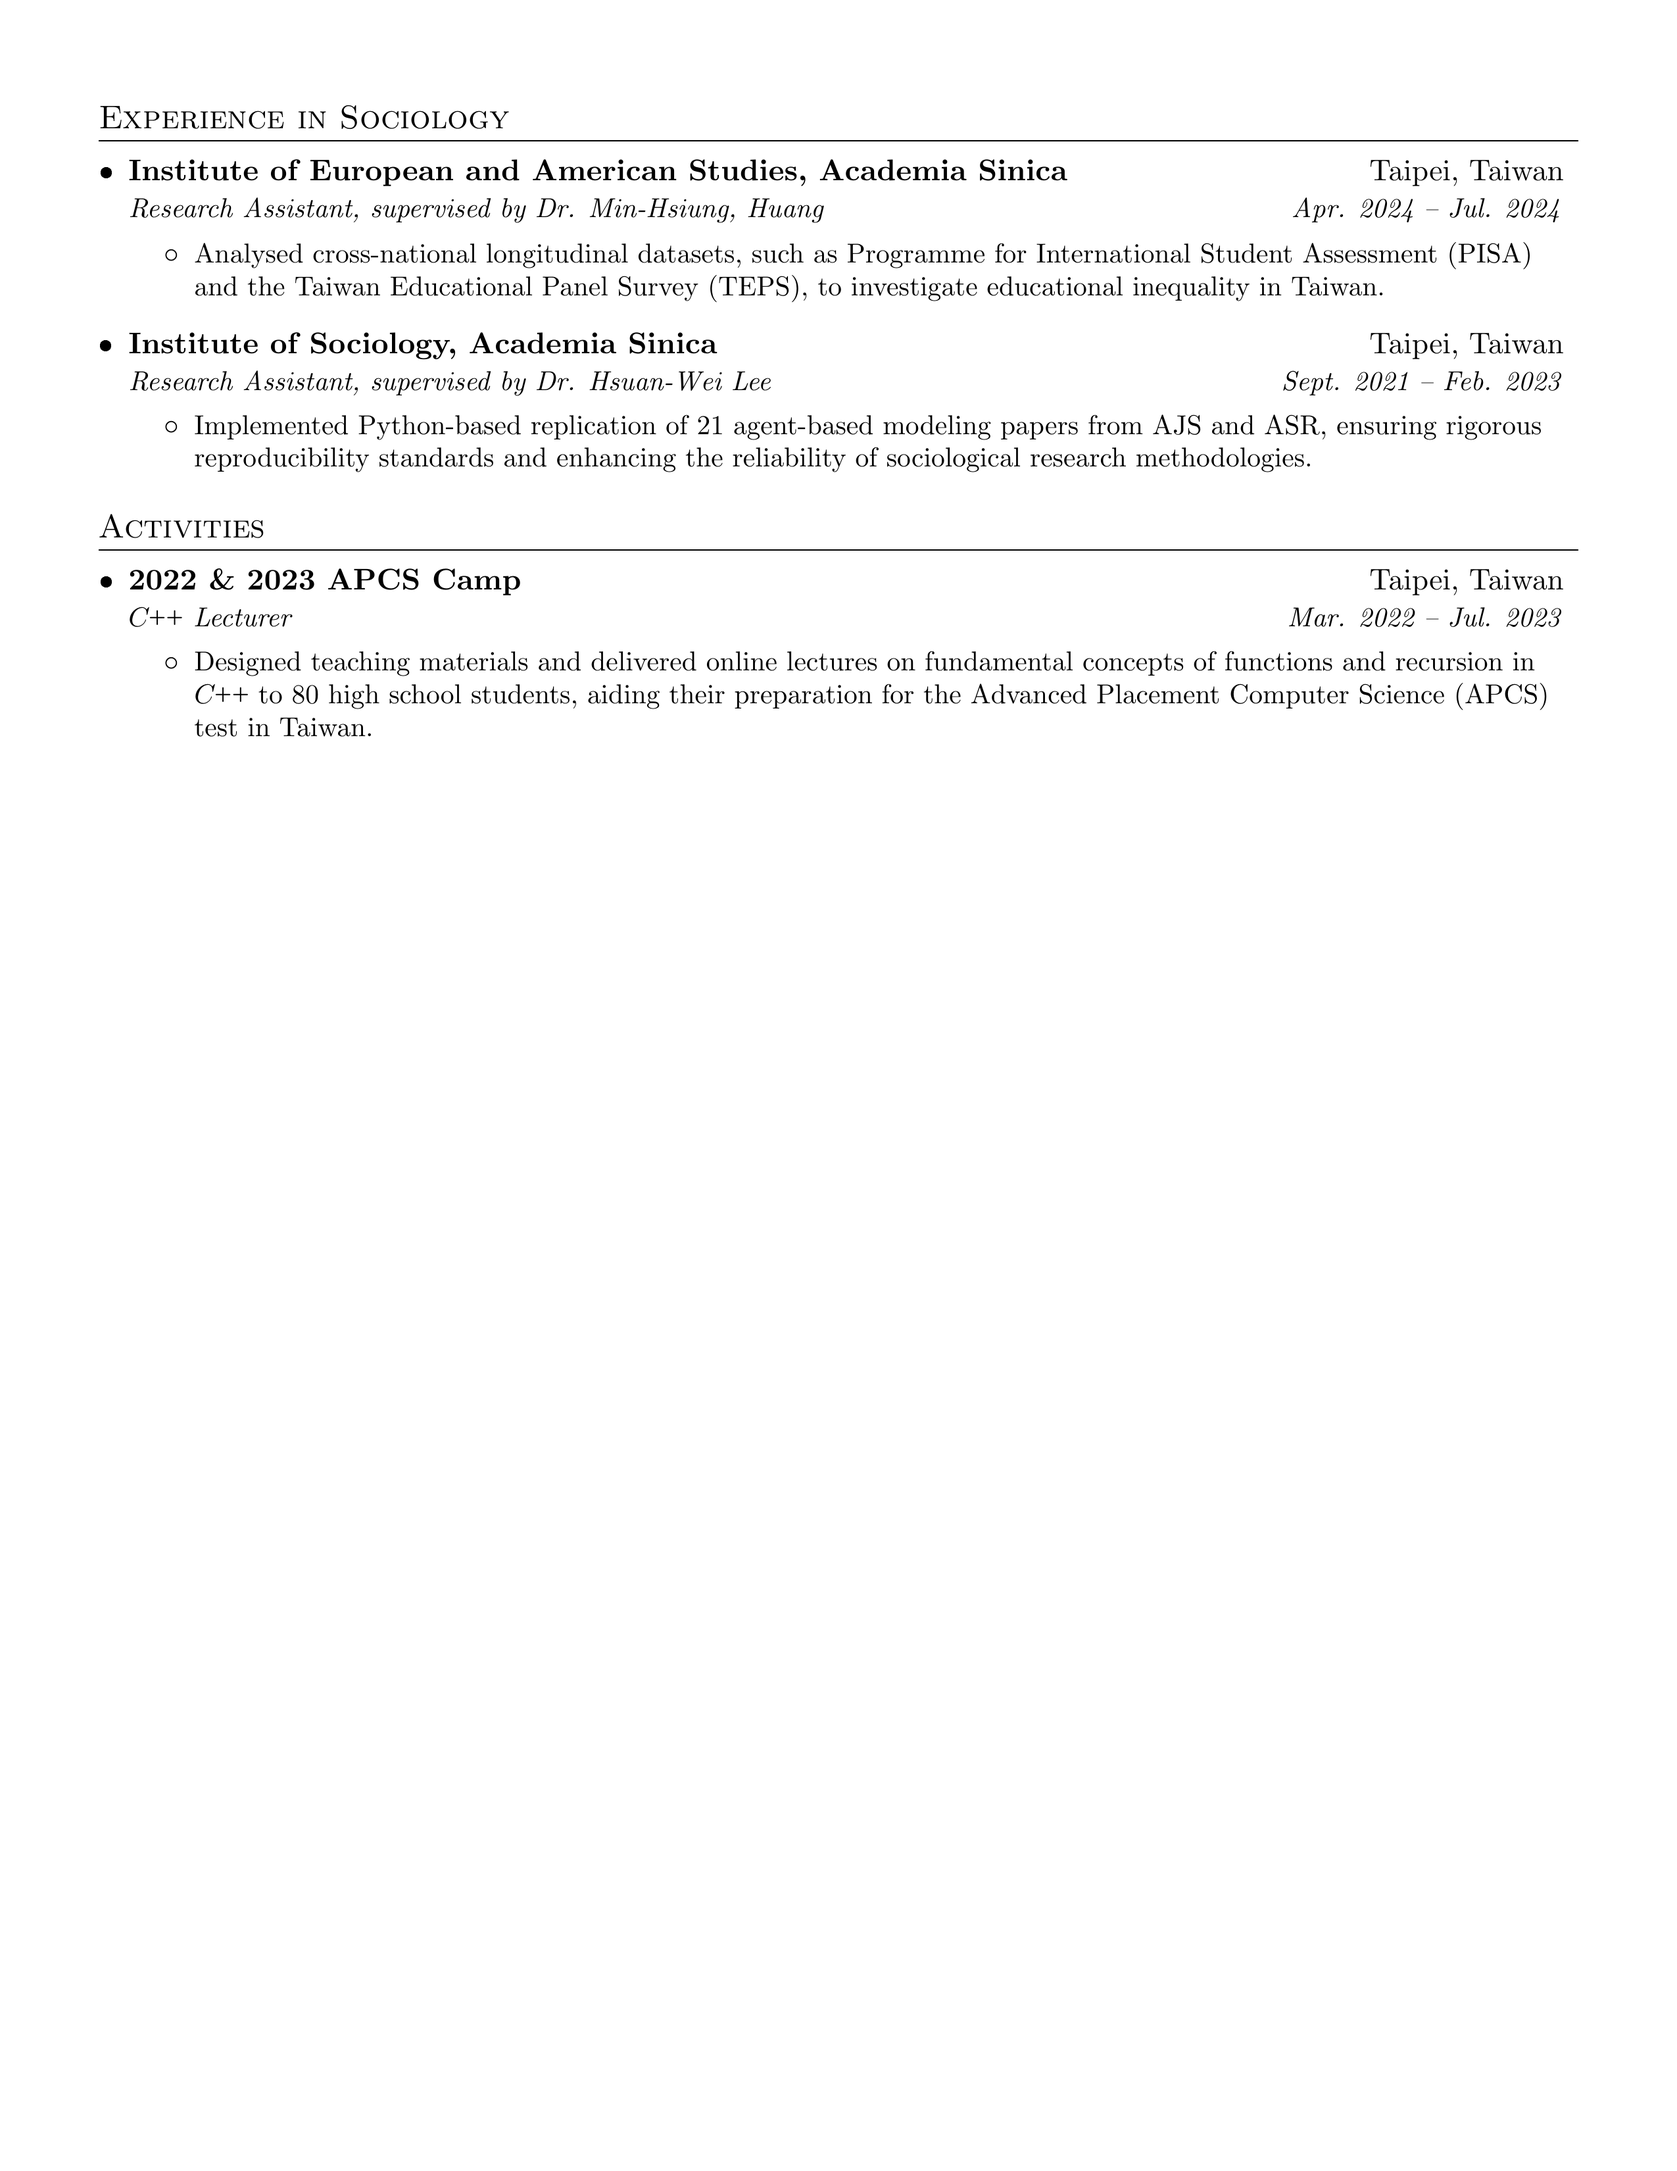
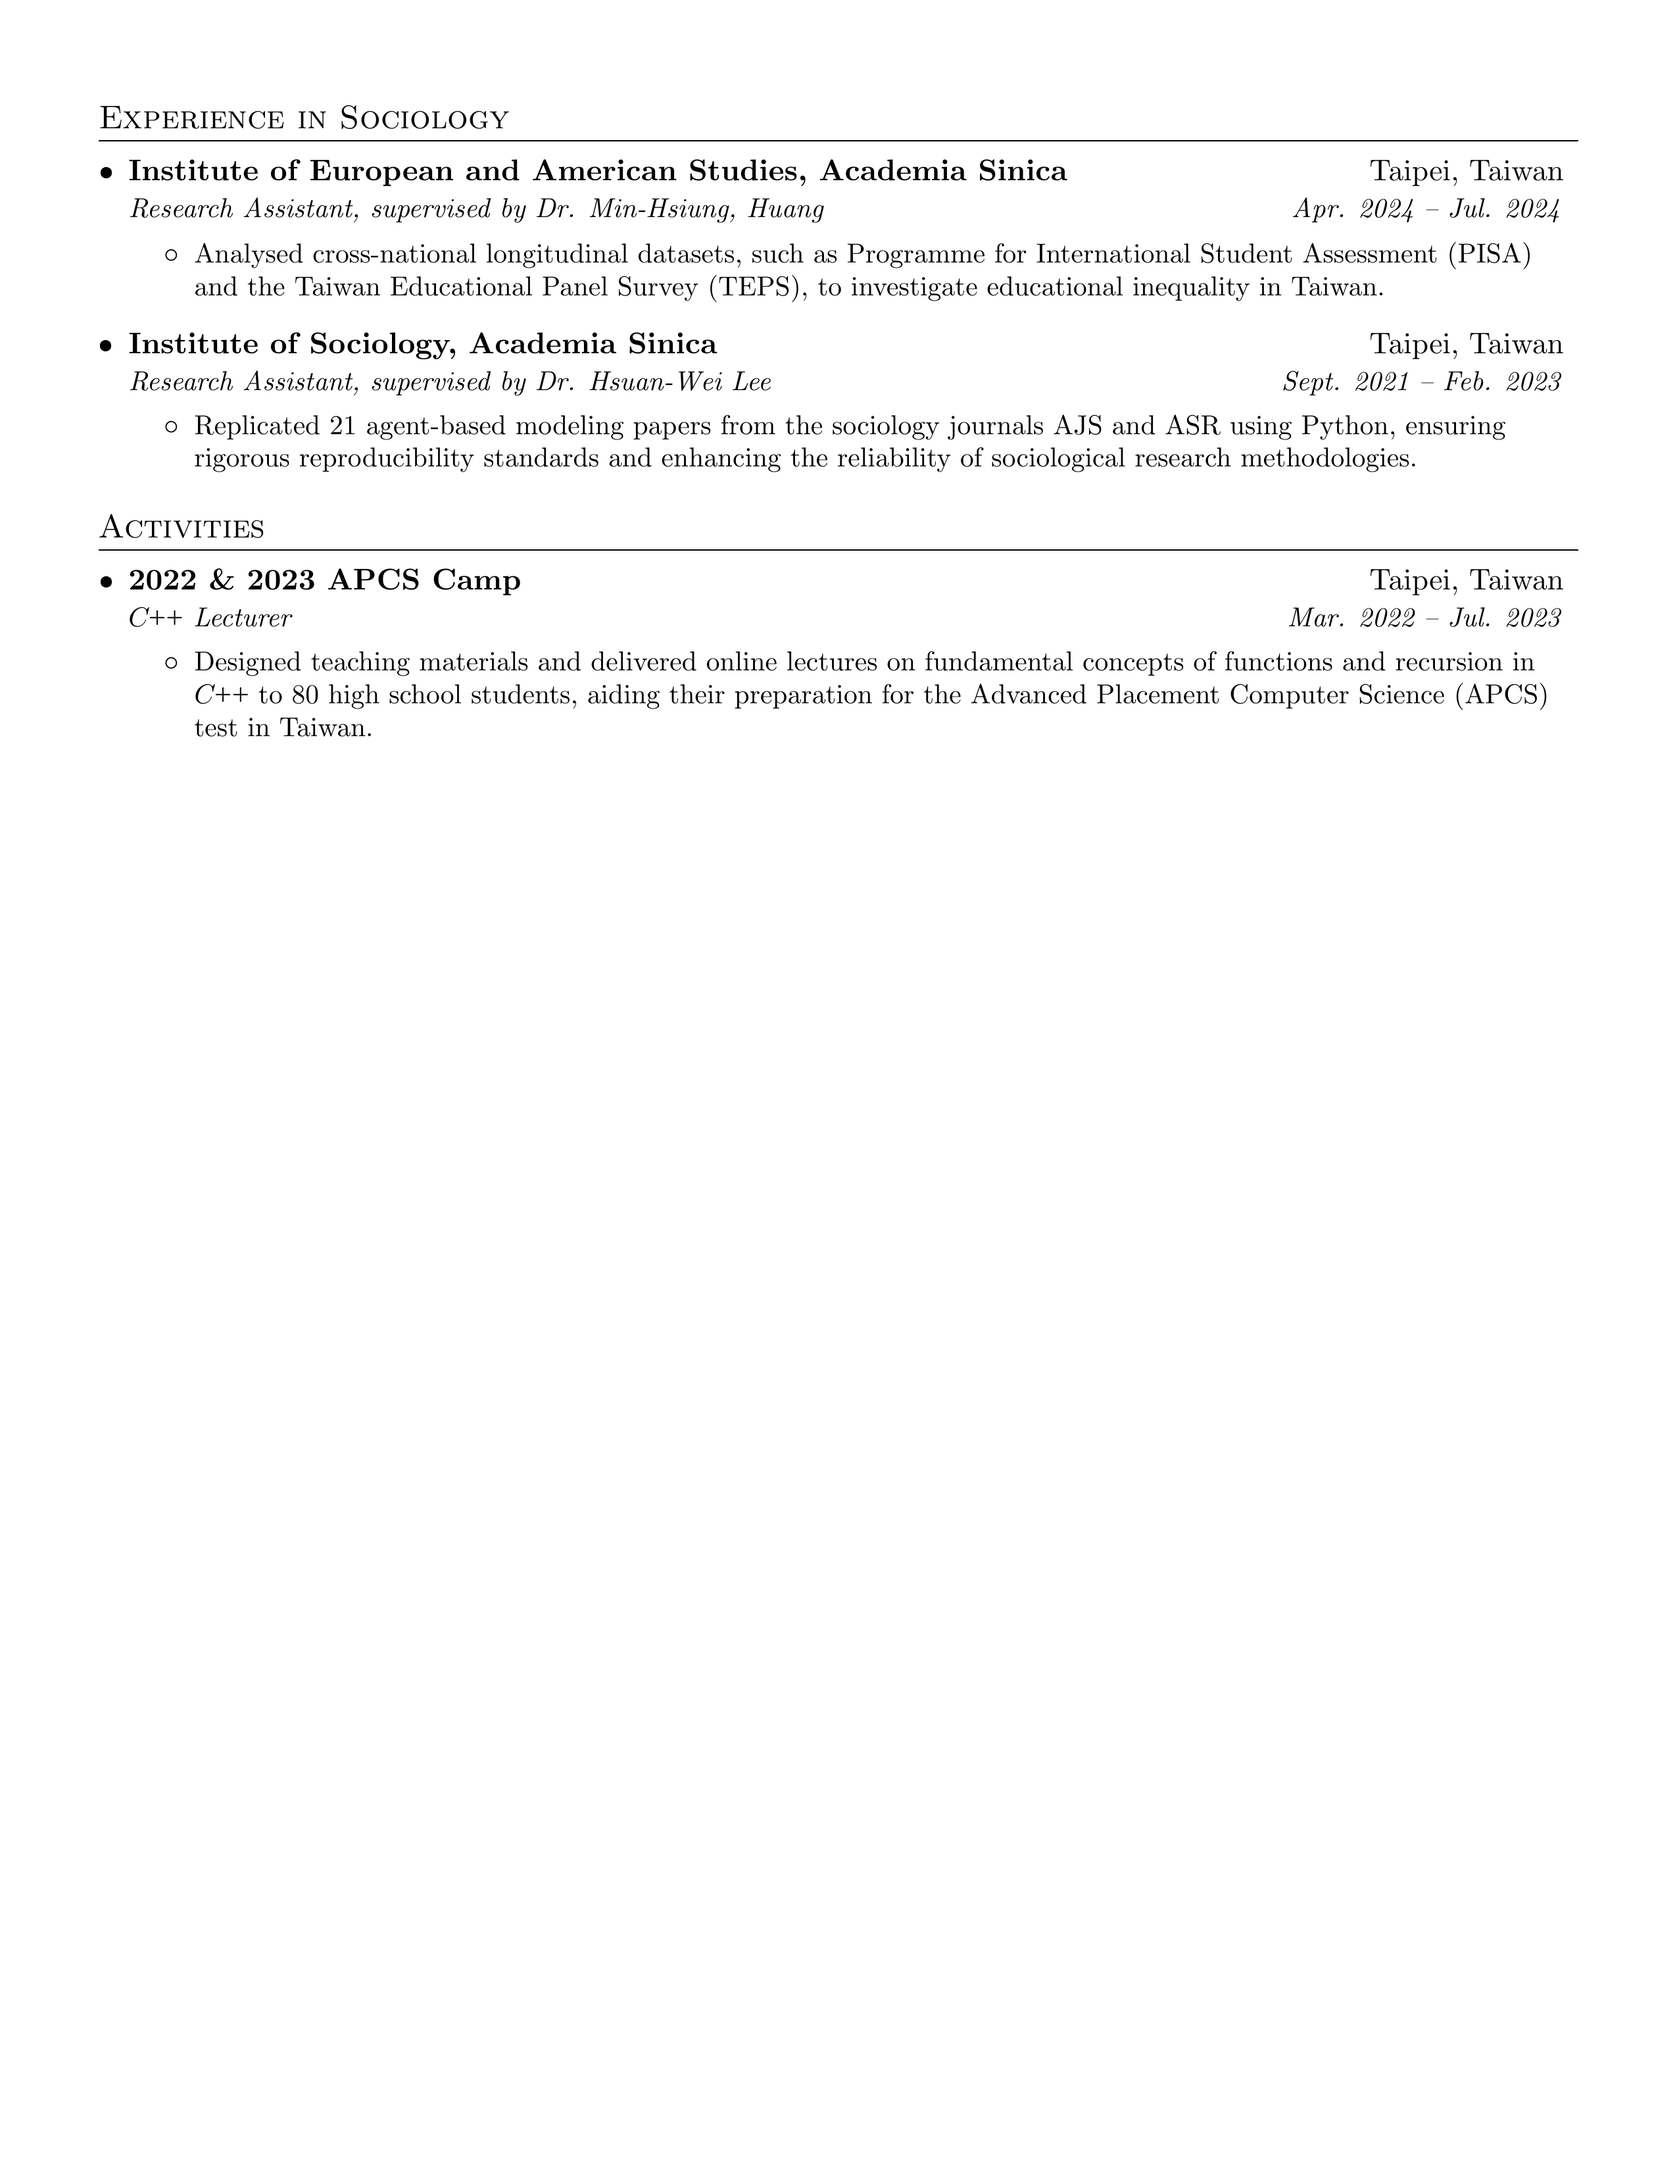
Update resume with details about software development tools

Changed region(s): [[0.1239, 0.1873, 0.8984, 0.2185]]

diff --git a/junweiliu-resume.tex b/junweiliu-resume.tex
@@ -133,38 +133,38 @@
       {Thingnario}{Taipei, Taiwan}
       {Site Reliability Engineering Intern}{Jun. 2023 -- Aug. 2023}
       \resumeItemListStart
-        \resumeItem{}{Enhanced operational efficiency by integrating testing scripts across diverse servers through the centralized scheduler/runner Cronicle, consolidating error messages into a single database for streamlined management and impactful troubleshooting.}
+        \resumeItem{}{Integrated testing scripts across diverse GCP servers using the centralized scheduler/runner Cronicle, consolidating error messages into an Elasticsearch-powered database for streamlined log analysis and more effective troubleshooting.}
       \resumeItemListEnd
 
     \resumeSubheading
       {Research Institutes of Sweden (RISE)}{Stockholm, Sweden}
       {Research Intern, supervised by Dr. Paris Carbone}{Apr. 2023 -- Jul. 2023}
       \resumeItemListStart
-        \resumeItem{}{Improved the efficiency of the Java-based project Crayfish by refactoring and dockerizing its structure to optimize the throughput assessment of machine learning models across diverse streaming frameworks, leading to its acceptance to EDBT/ICDT 2024.}
+        \resumeItem{}{Dockerized and refactored the Java-based throughput assessment of machine learning models across various stream-processing frameworks (e.g., Apache Flink, Kafka Streams, and Spark Streaming) to simulate real-world performance in an industrial setting, leading to its acceptance at EDBT/ICDT 2024.}
       \resumeItemListEnd
 
     \resumeSubheading
       {Mobagel}{Taipei, Taiwan}
       {Software Engineer Intern}{Jun. 2022 -- Aug. 2022}
       \resumeItemListStart
-        \resumeItem{}{Engineered error codes for Decanter AI's AutoML system, optimizing the handling of data processing, model training, and prediction requests, resulting in enhanced error message feedback at the web frontend.}
-        \resumeItem{}{Streamlined the "sanitizing" module responsible for managing special characters in file headers during user dataset uploads, contributing to improved data quality and user experience.}
+        \resumeItem{}{Developed error codes for Decanter AI's AutoML Scala-based system, optimizing data processing, model training, and prediction request handling, which improved error message feedback on the web frontend.}
+        \resumeItem{}{Optimized the "sanitizing" module responsible for managing special characters in file headers during user dataset uploads, enhancing data quality and user experience.}
       \resumeItemListEnd
 
     \resumeSubheading
       {Sensay}{United States (Remote)}
       {Machine Learning Intern}{Jul. 2021 -- Aug. 2021}
       \resumeItemListStart
-        \resumeItem{}{Enhanced automated speech assessment on Sensay's English learning platform by leveraging machine learning techniques from early ETS research (2008-2014), resulting in an improved scoring system based on the company's dataset.}
-        \resumeItem{}{Innovated language learning tools by developing an interactive audio visualization feedback system, incorporating insights from academic papers on acoustic feature visualization for pronunciation training, fostering an engaging platform for students to enhance their speaking skills.}
+        \resumeItem{}{Enhanced automated speech assessment on Sensay's English learning platform by applying machine learning techniques from early ETS research (2008–2014), improving the scoring system based on the company’s dataset.}
+        \resumeItem{}{Developed an interactive audio visualization feedback system for language learning, integrating insights from academic research on acoustic feature visualization for pronunciation training, fostering a more engaging and effective platform for students.}
       \resumeItemListEnd
     
       \resumeSubheading
         {Innoveon}{Taipei, Taiwan}
         {Deep Learning Intern}{Jul. 2020 -- Sept. 2020}
         \resumeItemListStart
-          \resumeItem{}{Contributed to the development of an image alignment algorithm for defect detection in racket production, integrating techniques from 4 influential papers centered around convolutional neural networks (CNN).}
-          \resumeItem{}{Executed experiments on data augmentation with the company's dataset, implementing feature disentanglement methodologies from 3 relevant papers based on variational autoencoders (VAE).}
+          \resumeItem{}{Developed an image alignment algorithm for defect detection in racket production, incorporating techniques from four influential papers on convolutional neural networks (CNNs).}
+          \resumeItem{}{Conducted experiments on data augmentation using the company’s dataset, applying feature disentanglement methods from three key papers on variational autoencoders (VAEs).}
         \resumeItemListEnd
       
         \resumeSubheading
@@ -172,8 +172,8 @@
           {High School Research Project, supervised by Dr. Li Su} {Aug. 2018 -- Jul. 2020}
           \resumeItemListStart
             \resumeItem{}{Published a first-authored paper "Body Movement Generation for Expressive Violin Performance Applying Neural Networks" in ICASSP 2020. [\href{https://ieeexplore.ieee.org/document/9054463}{IEEExplore}]}
-            \resumeItem{}{Developed a neural-network-based framework for generating expressive violin performance body skeletons.}
-            \resumeItem{}{Executed comprehensive subjective and objective evaluations, assessing the likeness and naturalness of the generated skeleton.}
+            \resumeItem{}{Developed a neural network-based framework with Keras to generate expressive violin performance body skeletons.}
+            \resumeItem{}{Conducted comprehensive subjective and objective evaluations to assess the likeness and naturalness of the generated skeletons.}
           \resumeItemListEnd
           
   \resumeSubHeadingListEnd
@@ -193,7 +193,7 @@
       {Institute of Sociology, Academia Sinica}{Taipei, Taiwan}
       {Research Assistant, supervised by Dr. Hsuan-Wei Lee}{Sept. 2021 -- Feb. 2023}
       \resumeItemListStart
-        \resumeItem{}{Implemented Python-based replication of 21 agent-based modeling papers from AJS and ASR, ensuring rigorous reproducibility standards and enhancing the reliability of sociological research methodologies.}
+        \resumeItem{}{Replicated 21 agent-based modeling papers from the sociology journals AJS and ASR using Python, ensuring rigorous reproducibility standards and enhancing the reliability of sociological research methodologies.}
       \resumeItemListEnd
     
   \resumeSubHeadingListEnd
